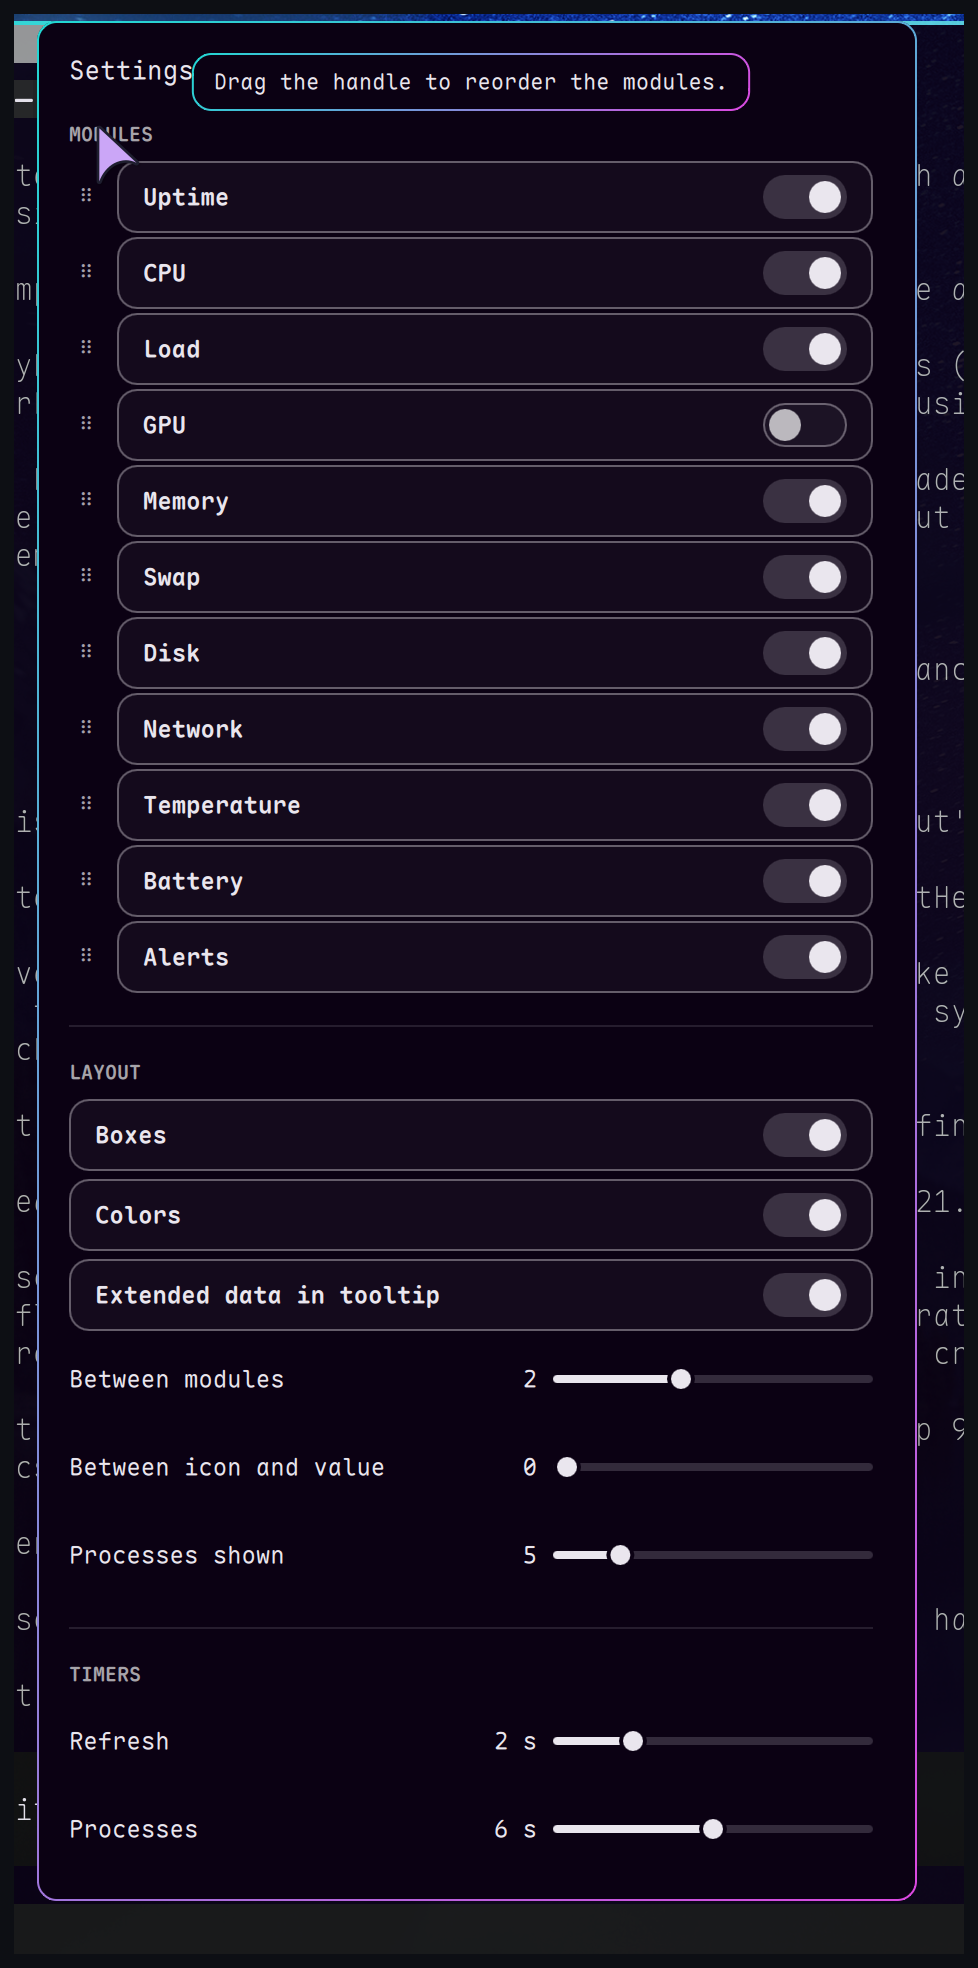
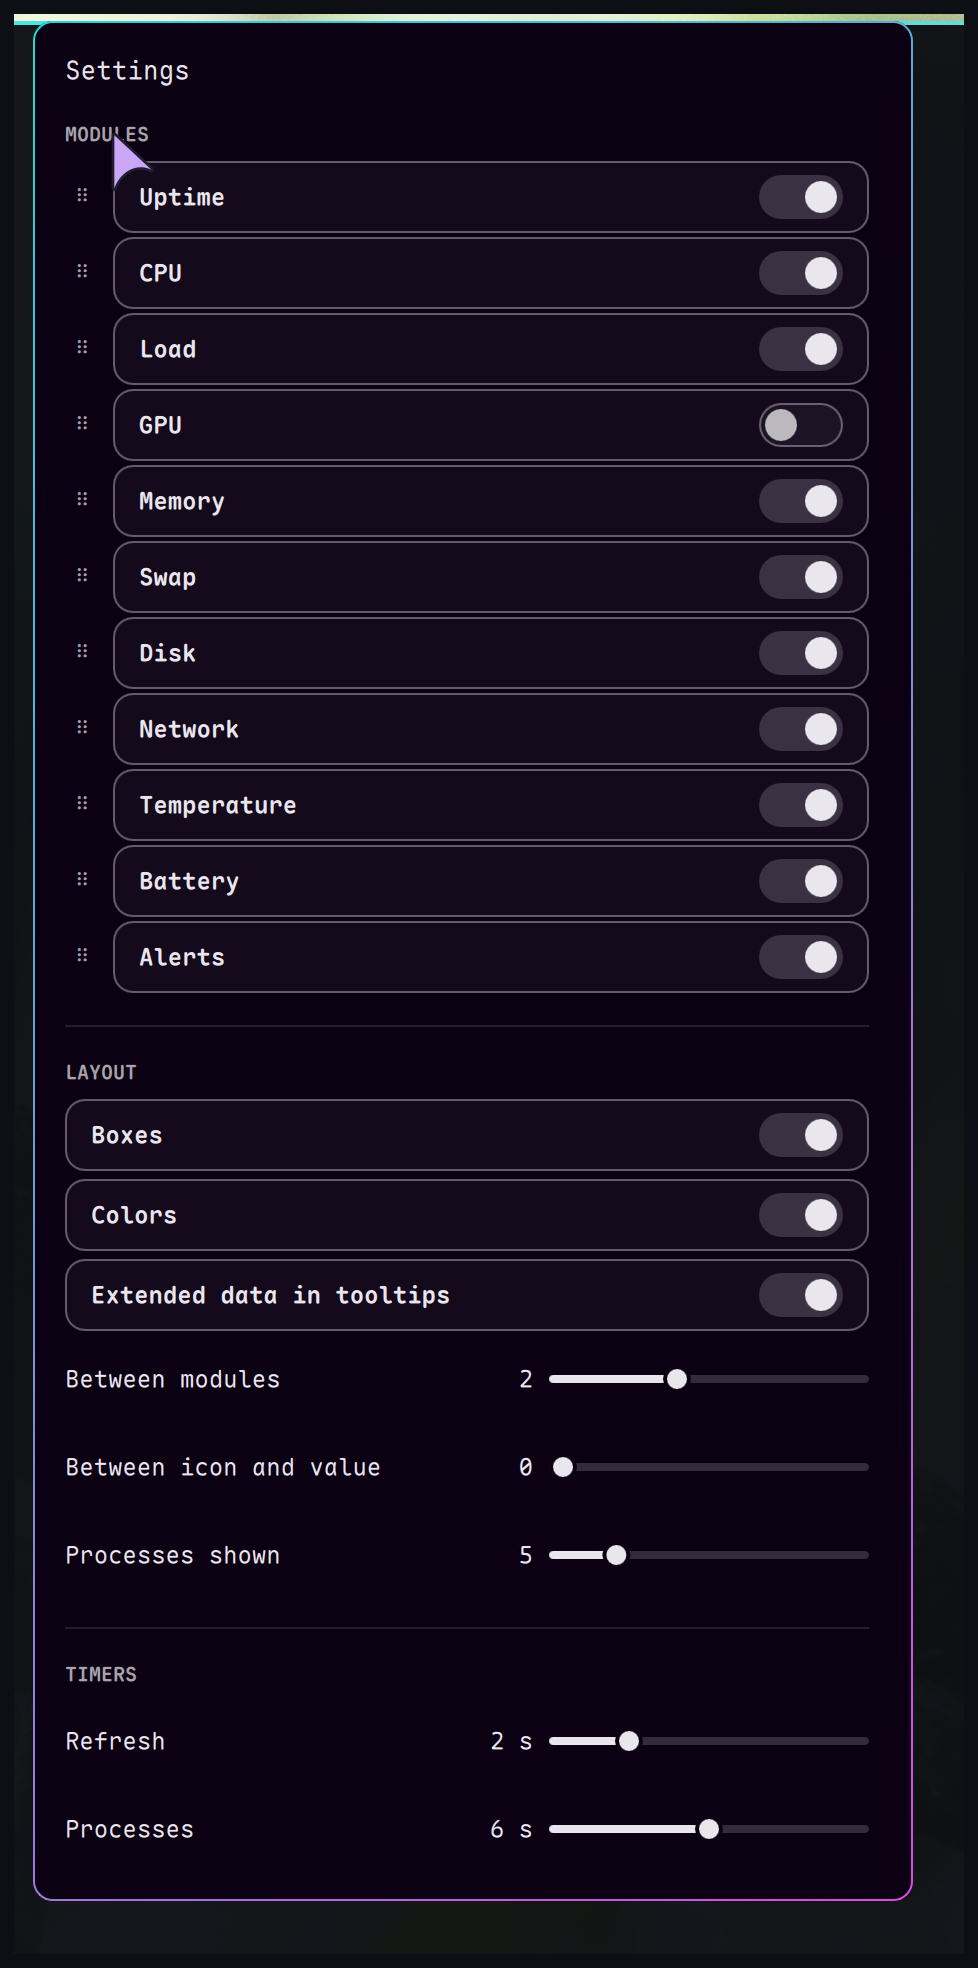
Use "Extended data in tooltips" in the UI and docs
The option enables fields in several tooltips, not just one. Settings label,
READMEs and the settings screenshot updated; version 1.22.1.

diff --git a/SettingsPanel.qml b/SettingsPanel.qml
@@ -492,7 +492,7 @@ PanelWindow {
                 Toggle {
                     Layout.fillWidth: true
                     Layout.preferredHeight: root.toggleRowHeight
-                    label: "Extended data in tooltip"
+                    label: "Extended data in tooltips"
                     fontFamily: Style.font.family
                     titleSize: Style.font.body
                     foreground: ShellColor.popups.text

diff --git a/README-fr.md b/README-fr.md
@@ -1,6 +1,6 @@
 # YASSM — Yet Another Simple System Monitor
 
-Version 1.22.0
+Version 1.22.1
 
 [English](README.md) | **Français**
 
@@ -132,7 +132,7 @@ appliqué immédiatement à la barre et enregistré dans `moduleOrder`.
 
 - Boxes (encadrement des modules)
 - Colors (seuils colorés et icône batterie bleue sur secteur)
-- Extended data in tooltip (fréquence par cœur, PSI, I/O disque, Wi-Fi, santé batterie)
+- Extended data in tooltips (fréquence par cœur, PSI, I/O disque, Wi-Fi, santé batterie)
 - Between modules (espacement entre modules, 0–5 espaces ; 2 par défaut)
 - Between icon and value (espace icône ↔ valeur, 0–3 espaces ; 1 par défaut)
 - Processes shown (processus userland affichés, 1–20 ; 10 par défaut)
@@ -153,7 +153,7 @@ les fausse pas. Le curseur **Processes** règle la fréquence de rafraîchisseme
 des tooltips CPU et RAM ; il descend jusqu'à 2 s. Le curseur **Processes shown**
 plafonne la liste userland à 1–20 lignes (10 par défaut) ; la ligne `kernel`
 est toujours en plus. La liste CPU est instantanée (deltas `/proc/<pid>/stat`),
-la RAM utilise le RSS de `ps`. **Extended data in tooltip** ajoute la fréquence
+la RAM utilise le RSS de `ps`. **Extended data in tooltips** ajoute la fréquence
 CPU, la pression PSI, les I/O disque, le signal Wi-Fi et la santé de la
 batterie à leurs tooltips ; l'option est active par défaut. Survoler
 n'importe quelle ligne de curseur affiche une infobulle avec ces explications.

diff --git a/README.md b/README.md
@@ -1,6 +1,6 @@
 # YASSM — Yet Another Simple System Monitor
 
-Version 1.22.0
+Version 1.22.1
 
 **English** | [Français](README-fr.md)
 
@@ -130,7 +130,7 @@ immediately and saved in `moduleOrder`.
 
 - Boxes (module frames)
 - Colors (colored thresholds and blue battery icon on mains)
-- Extended data in tooltip (per-core CPU frequency, PSI, disk I/O, Wi-Fi, battery health)
+- Extended data in tooltips (per-core CPU frequency, PSI, disk I/O, Wi-Fi, battery health)
 - Between modules (gap between modules, 0–5 spaces; default 2)
 - Between icon and value (gap between icon and value, 0–3 spaces; default 1)
 - Processes shown (userland processes in tooltips, 1–20; default 10)
@@ -151,7 +151,7 @@ distort them. The **Processes** slider sets how often the CPU and RAM tooltips
 refresh; it goes down to 2 s. The **Processes shown** slider caps the userland
 list at 1–20 rows (default 10); the `kernel` line (extended data) is counted
 separately. The CPU list is instantaneous (deltas from `/proc/<pid>/stat`),
-while RAM uses RSS from `ps`. **Extended data in tooltip** adds per-core
+while RAM uses RSS from `ps`. **Extended data in tooltips** adds per-core
 frequencies, PSI, disk I/O, Wi-Fi details, LAN/WAN addresses, battery power
 and health to their tooltips; it is on by default. Hovering any slider row
 shows a tooltip with the same explanation. The panel scrolls
